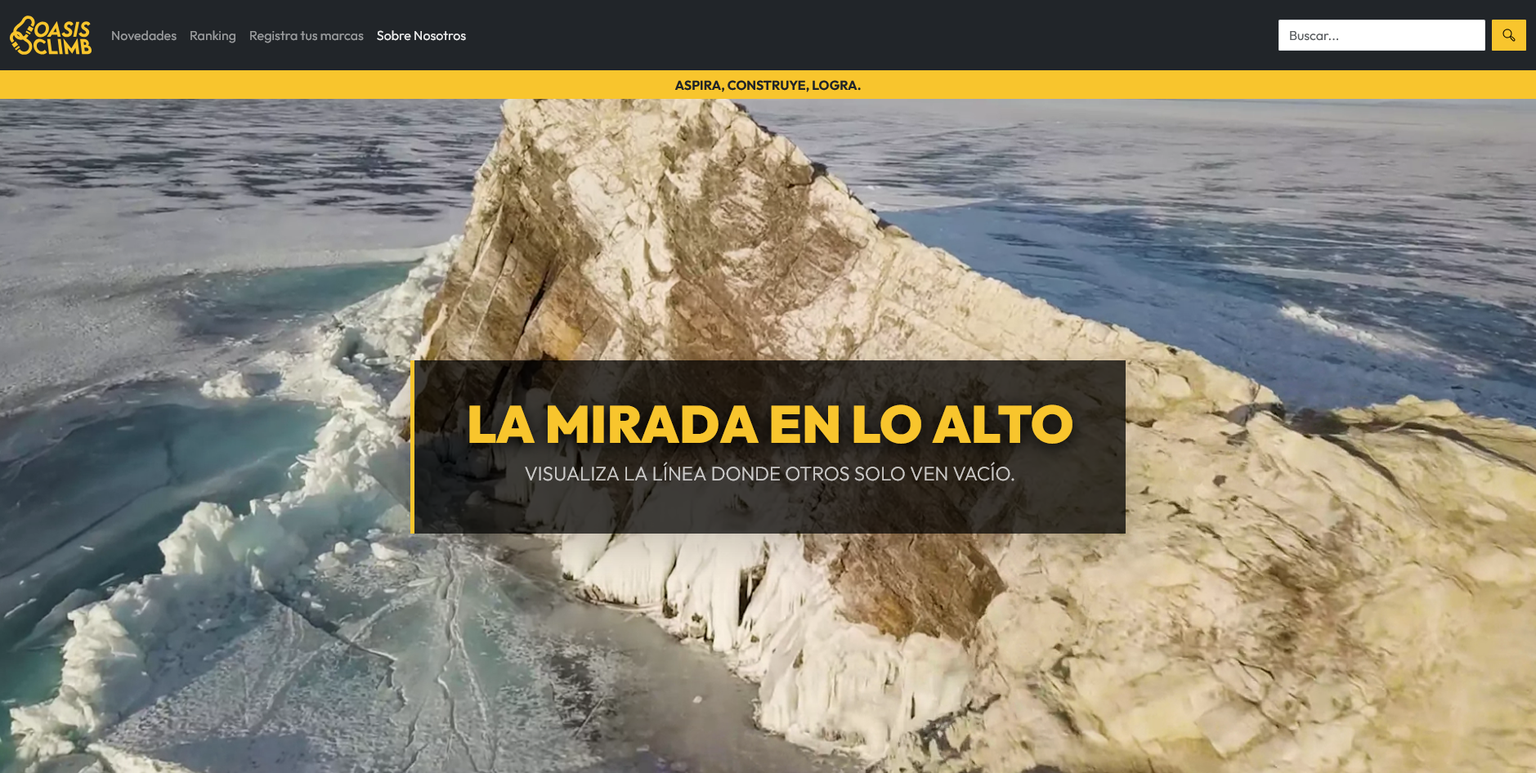
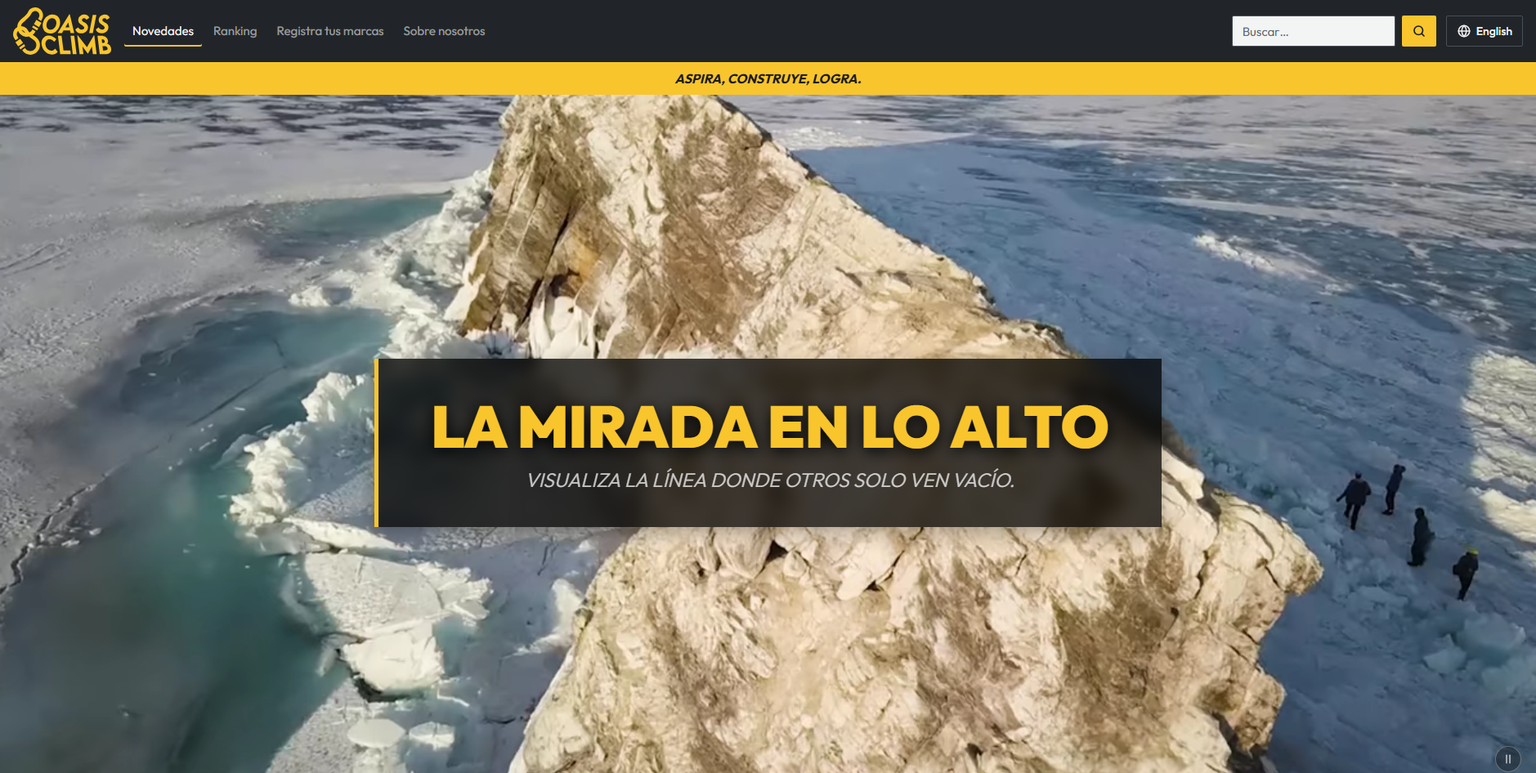
Add final metrics, case study and README update (RFP-26)
- docs/metrics-baseline.md: "after" column measured with the same method
  (JS 116.07 kB gz, CSS 6.30 kB gz, dist 14.3 MB, media 13.9 MB, 5 prod
  deps, Lighthouse mobile 86/100/100/100, Performance median of 3 runs).
- docs/case-study.md: EN + ES (Problem, Process, Decisions, Result) and
  the Portfolio fields block in PortfolioProject shape.
- README: new stack, scripts, i18n, search, links to the case study.
- docs/preview.png: fresh desktop capture of the current build.
- src/__tests__/docs.spec.ts: checks case study structure and README.

diff --git a/src/__tests__/docs.spec.ts b/src/__tests__/docs.spec.ts
@@ -1,0 +1,56 @@
+import { readFileSync } from 'node:fs'
+import { join } from 'node:path'
+import { describe, expect, it } from 'vitest'
+
+const root = join(__dirname, '..', '..')
+const read = (file: string) => readFileSync(join(root, file), 'utf8')
+
+describe('case study', () => {
+  const text = read('docs/case-study.md')
+  const english = text.slice(text.indexOf('## English'), text.indexOf('## Español'))
+  const spanish = text.slice(text.indexOf('## Español'), text.indexOf('## Portfolio fields'))
+
+  it('has an English and a Spanish part, in that order', () => {
+    expect(text).toContain('## English')
+    expect(text).toContain('## Español')
+    expect(text.indexOf('## English')).toBeLessThan(text.indexOf('## Español'))
+  })
+
+  it.each([
+    ['English', () => english],
+    ['Spanish', () => spanish],
+  ])('%s part has Problem, Process, Decisions and Result', (_name, part) => {
+    for (const heading of ['Problem', 'Process', 'Decisions', 'Result']) {
+      expect(part()).toContain(`### ${heading}`)
+    }
+  })
+
+  it('ends with the portfolio fields block', () => {
+    const block = text.slice(text.indexOf('## Portfolio fields'))
+    for (const key of ['summary:', 'context:', 'decisions:', 'challenges:']) {
+      expect(block).toContain(key)
+    }
+  })
+
+  it('has no pending-work markers', () => {
+    expect(text).not.toMatch(/\b(TODO|TBD|XXX)\b/)
+    expect(read('docs/metrics-baseline.md')).not.toMatch(/\b(TODO|TBD|XXX)\b/)
+  })
+})
+
+describe('README', () => {
+  const readme = read('README.md')
+
+  it('has no placeholders', () => {
+    expect(readme).not.toContain('<nuevo-nombre')
+  })
+
+  it('does not mention the removed CSS frameworks', () => {
+    expect(readme).not.toMatch(/bootstrap|coreui/i)
+  })
+
+  it('links the case study and documents the test script', () => {
+    expect(readme).toContain('./docs/case-study.md')
+    expect(readme).toContain('npm run test')
+  })
+})

diff --git a/docs/case-study.md b/docs/case-study.md
@@ -1,0 +1,220 @@
+# OasisClimb UI: case study
+
+Refactor of a fictional climbing-community landing page (Vue 3) from a Bootstrap prototype into a typed, tested, bilingual SPA.
+Demo: <https://v-pelaez.github.io/oasis-climb-ui/> · Code: <https://github.com/v-pelaez/oasis-climb-ui>.
+Numbers come from `docs/metrics-baseline.md` (same method before and after, measured on the same machine).
+
+## English
+
+### Problem
+
+The starting point (commit `4dd4a19`) looked finished but was not maintainable:
+
+- About 1,500 lines in 9 components, and no TypeScript in the SFCs although the README said so.
+- Bootstrap was loaded twice (SCSS and `coreui.min.css`): 69.7 kB of gzipped CSS for one landing page.
+- The brand yellow `#f8c52d` was hard-coded in more than 10 places; some ids were duplicated.
+- The particles canvas had a bug (`canvas.height` instead of `canvas.value.height`, no `requestAnimationFrame` cancel); the hero carousel ran on timers.
+- Font Awesome icons were used but never installed, so they were invisible; emoji flags do not render on Windows.
+- 13 lint errors, no tests, no CI, 55.4 MB of images and video, Spanish only.
+
+### Process
+
+We worked in small tickets, each on its own branch and merged into one epic, with the checks (lint, type-check, tests, build) green at every step:
+
+1. Baseline: measured the untouched commit with a documented method, so the final numbers are comparable.
+2. Tooling: SFCs to TypeScript, typed content data, Vitest and CI.
+3. Own styles and layout without Bootstrap; then news and ranking, route form, hero carousel and about section rebuilt one at a time.
+4. Bootstrap and CoreUI removed, with a test that fails if their packages or classes come back.
+5. i18n, search and media optimisation; a contrast and hero-video fix after reviewing against the style guide.
+6. Final measurement and this write-up.
+
+History note: the original interface was a static Bootstrap page migrated to Vue; Bootstrap and CoreUI no longer exist in the project.
+
+### Decisions
+
+**1. No CSS framework: Sass tokens + Reka UI.** One `tokens.scss` holds every brand value as `--oc-*` custom properties (a test enforces that the yellow is written only there), plus a small base, mixins and scoped component styles. Behaviour that is hard to get right (dialog, popover, tooltip, tabs, combobox) comes from Reka UI, which is unstyled and accessible.
+- Discarded: Tailwind v4 + Reka UI. It would also remove Bootstrap, but a design this small with a fixed style guide gains little from utility classes, and it would put the design values in markup instead of one file.
+- Discarded: everything by hand. Focus trapping, keyboard navigation and ARIA for five widgets is where hand-rolled code breaks.
+- Trade-off: Reka UI and own styles cost JavaScript (see Result).
+
+**2. i18n by detection, with a button and no flags.** `vue-i18n` (Composition API), Spanish and English. The language is the saved choice, else the first browser language that is `es` or `en`, else English; `<html lang>`, title and meta description follow. The switch is a button that names the other language in that language. Dates, countries and numbers use `Intl`. A test checks both locale files have the same keys.
+- Discarded: URL-based locales (`/es`, `/en`). It is a single-page demo, not worth the routing and SEO surface.
+- Discarded: flags for languages (a flag is a country, not a language). Ranking countries do use inline SVG flags, because Chrome and Edge on Windows do not draw emoji flags.
+
+**3. Client-side search.** A pure index of news, both rankings and sections in the active language, accent and case insensitive, minimum 2 characters, at most 8 results. It is a Reka UI Combobox; choosing a result opens the right ranking tab, scrolls to the target and outlines it for about 2 seconds.
+- Discarded: a search service or library. The content is a few dozen static items; an index is about one file and adds no dependency.
+
+**4. Carousel chained by `ended` instead of timers.** Before: a `setInterval` of 6 s with a loop, which cut videos mid-play. Now each video plays to its end, the next one fades in, progress comes from the video's own `timeupdate`, there is a pause button, only the active and next videos are loaded, and it respects `prefers-reduced-motion`. A real bug found along the way: the fading video kept `data-active`, so the finished video was replayed; videos are now looked up by slide index.
+- Discarded: keeping timers and tuning the interval. Durations differ per video, so any fixed interval is wrong for some of them.
+
+**5. Optimised media.** Videos: VP8 to VP9, two-pass ffmpeg, crf 34-38, audio removed except in the about video (Opus 64 kbps); one video drops to 720p because 1080p did not fit the budget. Images: WebP quality 80, thumbnails up to 800 px and headers up to 1920 px (one source was 6720x4480), explicit `width`/`height`, lazy loading below the fold. Scripts are in `scripts/` so it is reproducible. Media went from 55.4 MB to 13.9 MB.
+- Discarded: AV1 (slower to encode, weaker support at the time) and an image CDN (no infrastructure for a demo).
+
+**6. Tests and CI.** 117 Vitest tests (components, composables, data, locale parity, a guard against Bootstrap coming back, docs checks) and a GitHub Actions workflow running lint, type-check, tests and build on pull requests. Lint is strict (`--max-warnings 0`).
+- Discarded: end-to-end tests for now; unit and component tests cover the logic, and the cost of a browser pipeline was not justified for this size.
+
+**Differences applied from the style guide** (`docs/style-guide.pdf`), as seen in the git history:
+- Light surfaces are no longer pure white: `--oc-page` is `#e9ebec` and a new `--oc-surface` (`#f3f4f4`) is used on cards, tables, inputs and popovers.
+- The secondary and placeholder gray was darkened to keep AA contrast on that surface.
+- The logo is imported through Vite and has explicit dimensions (120x57 in the header).
+- Pagination, subscribe and the unavailable links open a popover on click (Reka UI Popover) instead of navigating or doing nothing.
+- Countries are written with `Intl.DisplayNames` in the active language (for example «Chequia» in Spanish) and drawn with SVG flags.
+- A language button in the header, and a search field with results.
+- Dark route-form inputs with a yellow focus border; the hero carousel with pause and progress.
+
+### Result
+
+| Metric | Before | After |
+| --- | ---: | ---: |
+| JS, gzip | 79.29 kB | 116.07 kB |
+| CSS, gzip | 69.71 kB | 6.30 kB |
+| `dist/` | 56.2 MB | 14.3 MB |
+| Media in `dist/assets` | 55.4 MB | 13.9 MB |
+| Production dependencies | 9 | 5 |
+| Tests | 0 | 117 |
+| Lighthouse mobile, Performance | 92 | 86 |
+| Lighthouse mobile, Accessibility | 81 | 100 |
+| Lighthouse mobile, Best Practices | 100 | 100 |
+| Lighthouse mobile, SEO | 82 | 100 |
+
+Lighthouse 12.8.2, mobile profile, headless Edge against `npm run preview`; the baseline was one run, the final Performance score is the median of three (86, 86, 83).
+
+What did not improve: JavaScript grew by about 37 kB gzipped because `vue-i18n` and Reka UI were added. Lighthouse Performance went down six points (LCP 2.8 s to 3.5 s, TBT 90 ms to 130 ms), even though the page transfers 4.9 MB instead of 14.9 MB: the hero video now arrives a bit later than in the old build and there is more JavaScript to run. We accepted that for accessibility, i18n and search; the next steps would be to lazy-load the combobox and the second locale, and to serve a smaller first video.
+
+## Español
+
+### Problem
+
+El punto de partida (commit `4dd4a19`) parecía terminado, pero no se podía mantener:
+
+- Unas 1.500 líneas en 9 componentes y sin TypeScript en los SFC, aunque el README decía lo contrario.
+- Bootstrap se cargaba dos veces (SCSS y `coreui.min.css`): 69,7 kB de CSS en gzip para una sola página.
+- El amarillo de marca `#f8c52d` estaba escrito a mano en más de 10 sitios; había ids duplicados.
+- El canvas de partículas tenía un fallo (`canvas.height` en lugar de `canvas.value.height`, sin cancelar el `requestAnimationFrame`); el carrusel de la portada funcionaba con temporizadores.
+- Los iconos de Font Awesome se usaban sin estar instalados, así que no se veían; las banderas emoji no se dibujan en Windows.
+- 13 errores de lint, sin tests ni CI, 55,4 MB de imágenes y vídeo y solo en español.
+
+### Process
+
+Trabajamos en tickets pequeños, cada uno en su rama y fusionado en una rama de épica, con las comprobaciones (lint, tipos, tests, build) en verde en cada paso:
+
+1. Línea base: medimos el commit original con un método documentado, para que las cifras finales sean comparables.
+2. Herramientas: SFC a TypeScript, datos de contenido tipados, Vitest y CI.
+3. Estilos y maquetación propios sin Bootstrap; después noticias y ranking, formulario de ruta, carrusel de portada y «Sobre nosotros», uno a uno.
+4. Bootstrap y CoreUI eliminados, con un test que falla si vuelven sus paquetes o sus clases.
+5. i18n, búsqueda y optimización de medios; una corrección de contraste y del carrusel tras revisar con la guía de estilos.
+6. Medición final y este documento.
+
+Nota histórica: la interfaz original era una página estática con Bootstrap migrada a Vue; Bootstrap y CoreUI ya no existen en el proyecto.
+
+### Decisions
+
+**1. Sin framework CSS: tokens Sass + Reka UI.** Un único `tokens.scss` guarda todos los valores de marca como propiedades `--oc-*` (un test exige que el amarillo solo se escriba ahí), más una base pequeña, mixins y estilos de componente con scope. Lo difícil de hacer bien (diálogo, popover, tooltip, pestañas, combobox) viene de Reka UI, que no trae estilos y es accesible.
+- Descartado: Tailwind v4 + Reka UI. También quitaría Bootstrap, pero con un diseño tan pequeño y una guía de estilos fija las utilidades aportan poco, y los valores de diseño acabarían en el marcado en lugar de en un archivo.
+- Descartado: todo a mano. Atrapar el foco, el teclado y ARIA de cinco widgets es donde falla el código hecho a mano.
+- Coste: Reka UI y los estilos propios suman JavaScript (ver Result).
+
+**2. i18n por detección, con botón y sin banderas.** `vue-i18n` (Composition API), español e inglés. El idioma es la elección guardada, si no el primer idioma del navegador que sea `es` o `en`, si no inglés; `<html lang>`, título y meta descripción lo siguen. El cambio es un botón que nombra el otro idioma en ese idioma. Fechas, países y números usan `Intl`. Un test comprueba que ambos ficheros tienen las mismas claves.
+- Descartado: idioma en la URL (`/es`, `/en`). Es una demo de una sola página y no compensa el enrutado ni la superficie de SEO.
+- Descartado: banderas para los idiomas (una bandera es un país, no un idioma). Los países del ranking sí usan banderas SVG en línea, porque Chrome y Edge en Windows no dibujan las banderas emoji.
+
+**3. Buscador en cliente.** Un índice puro de noticias, los dos rankings y las secciones en el idioma activo, sin distinguir tildes ni mayúsculas, mínimo 2 caracteres y como máximo 8 resultados. Es un Combobox de Reka UI; al elegir un resultado se abre la pestaña de ranking correcta, se hace scroll al destino y se resalta unos 2 segundos.
+- Descartado: un servicio o librería de búsqueda. El contenido son unas decenas de elementos estáticos; el índice es un archivo y no añade dependencias.
+
+**4. Carrusel encadenado por `ended`, no por temporizadores.** Antes: un `setInterval` de 6 s con bucle, que cortaba los vídeos a medias. Ahora cada vídeo se reproduce hasta el final, el siguiente aparece con fundido, el progreso sale del `timeupdate` del propio vídeo, hay botón de pausa, solo se cargan el vídeo activo y el siguiente, y respeta `prefers-reduced-motion`. Un fallo real que encontramos: el vídeo que se desvanecía conservaba `data-active`, así que se repetía el terminado; ahora se busca por índice de diapositiva.
+- Descartado: mantener temporizadores y afinar el intervalo. Cada vídeo dura distinto, así que cualquier intervalo fijo falla en alguno.
+
+**5. Medios optimizados.** Vídeos: de VP8 a VP9, ffmpeg en dos pasadas, crf 34-38, sin audio salvo en el vídeo de «Sobre nosotros» (Opus 64 kbps); uno baja a 720p porque en 1080p no cabía en el presupuesto. Imágenes: WebP calidad 80, miniaturas de hasta 800 px y cabeceras de hasta 1920 px (una fuente era de 6720x4480), `width`/`height` explícitos y carga diferida bajo el pliegue. Los scripts están en `scripts/`, así que es reproducible. Los medios pasaron de 55,4 MB a 13,9 MB.
+- Descartado: AV1 (codifica más lento y tenía menos soporte entonces) y un CDN de imágenes (no hay infraestructura para una demo).
+
+**6. Tests y CI.** 117 tests de Vitest (componentes, composables, datos, paridad de idiomas, una guarda contra el regreso de Bootstrap, comprobaciones de los documentos) y un workflow de GitHub Actions que ejecuta lint, tipos, tests y build en las pull requests. El lint es estricto (`--max-warnings 0`).
+- Descartado: tests end-to-end por ahora; los tests unitarios y de componentes cubren la lógica y una pipeline con navegador no compensaba en este tamaño.
+
+**Diferencias aplicadas de la guía de estilos** (`docs/style-guide.pdf`), según el historial de git:
+- Las superficies claras ya no son blanco puro: `--oc-page` es `#e9ebec` y un nuevo `--oc-surface` (`#f3f4f4`) se usa en tarjetas, tablas, campos y popovers.
+- El gris secundario y el de los placeholders se oscureció para mantener contraste AA sobre esa superficie.
+- El logo se importa con Vite y tiene dimensiones explícitas (120x57 en la cabecera).
+- La paginación, la suscripción y los enlaces no disponibles abren un popover al hacer clic (Reka UI Popover) en lugar de navegar o no hacer nada.
+- Los países se escriben con `Intl.DisplayNames` en el idioma activo (por ejemplo «Chequia» en español) y se dibujan con banderas SVG.
+- Botón de idioma en la cabecera y campo de búsqueda con resultados.
+- Campos oscuros del formulario de ruta con borde amarillo al enfocar; carrusel de portada con pausa y progreso.
+
+### Result
+
+| Métrica | Antes | Después |
+| --- | ---: | ---: |
+| JS, gzip | 79,29 kB | 116,07 kB |
+| CSS, gzip | 69,71 kB | 6,30 kB |
+| `dist/` | 56,2 MB | 14,3 MB |
+| Medios en `dist/assets` | 55,4 MB | 13,9 MB |
+| Dependencias de producción | 9 | 5 |
+| Tests | 0 | 117 |
+| Lighthouse móvil, Performance | 92 | 86 |
+| Lighthouse móvil, Accessibility | 81 | 100 |
+| Lighthouse móvil, Best Practices | 100 | 100 |
+| Lighthouse móvil, SEO | 82 | 100 |
+
+Lighthouse 12.8.2, perfil móvil, Edge headless contra `npm run preview`; la línea base fue una sola ejecución y la puntuación final de Performance es la mediana de tres (86, 86, 83).
+
+Lo que no mejoró: el JavaScript creció unos 37 kB en gzip porque se añadieron `vue-i18n` y Reka UI. La puntuación de Performance de Lighthouse bajó seis puntos (LCP de 2,8 s a 3,5 s, TBT de 90 ms a 130 ms) aunque la página transfiere 4,9 MB en lugar de 14,9 MB: el vídeo de portada llega algo más tarde que en la versión anterior y hay más JavaScript que ejecutar. Lo aceptamos a cambio de accesibilidad, i18n y búsqueda; los siguientes pasos serían cargar de forma diferida el combobox y el segundo idioma, y servir un primer vídeo más pequeño.
+
+## Portfolio fields
+
+Shape of `PortfolioProject` (`summary`, `context`, `decisions`, `challenges`; each text is `{ en, es }`).
+
+```ts
+summary: {
+  en: 'Refactor of a climbing-community landing page from a Bootstrap prototype to a typed, tested, bilingual Vue 3 SPA: CSS 70 kB to 6 kB gzipped, media 55 MB to 14 MB, Lighthouse accessibility 81 to 100.',
+  es: 'Refactor de una landing de comunidad de escalada de un prototipo con Bootstrap a una SPA Vue 3 tipada, con tests y bilingüe: CSS de 70 kB a 6 kB en gzip, medios de 55 MB a 14 MB, accesibilidad en Lighthouse de 81 a 100.',
+},
+context: {
+  en: 'A fictional brand site built as a frontend showcase. The original loaded Bootstrap twice, had no TypeScript in its components, no tests or CI, 55 MB of media and a carousel on timers. The goal was to keep the look and make the code something a team could maintain.',
+  es: 'Web de una marca ficticia hecha como escaparate de frontend. La original cargaba Bootstrap dos veces, no tenía TypeScript en los componentes, ni tests ni CI, tenía 55 MB de medios y un carrusel con temporizadores. El objetivo era mantener el aspecto y dejar un código que un equipo pueda mantener.',
+},
+decisions: [
+  {
+    title: {
+      en: 'Sass tokens and Reka UI instead of a CSS framework',
+      es: 'Tokens Sass y Reka UI en lugar de un framework CSS',
+    },
+    description: {
+      en: 'All brand values live in one tokens file and components use scoped styles; dialogs, popovers, tabs and the search combobox come from unstyled, accessible Reka UI primitives. Tailwind v4 and hand-written widgets were discarded. The cost is more JavaScript (79 kB to 116 kB gzipped).',
+      es: 'Todos los valores de marca viven en un único archivo de tokens y los componentes usan estilos con scope; diálogos, popovers, pestañas y el combobox del buscador salen de primitivas de Reka UI, accesibles y sin estilos. Se descartaron Tailwind v4 y los widgets hechos a mano. El coste es más JavaScript (de 79 kB a 116 kB en gzip).',
+    },
+  },
+  {
+    title: {
+      en: 'Language detection with a button, and a client-side index for search',
+      es: 'Detección de idioma con botón e índice en cliente para la búsqueda',
+    },
+    description: {
+      en: 'vue-i18n picks the saved or browser language (Spanish or English), names the other language on the button and formats dates, countries and numbers with Intl. Search is a pure in-memory index over the static content, with no service or extra dependency.',
+      es: 'vue-i18n elige el idioma guardado o el del navegador (español o inglés), el botón nombra el otro idioma y las fechas, países y números se formatean con Intl. La búsqueda es un índice puro en memoria sobre el contenido estático, sin servicio ni dependencias extra.',
+    },
+  },
+  {
+    title: {
+      en: 'Event-driven hero carousel and optimised media',
+      es: 'Carrusel de portada por eventos y medios optimizados',
+    },
+    description: {
+      en: 'Each hero video advances on its own ended event instead of a 6 s timer, and loads only when it is next. Videos were re-encoded to two-pass VP9 and images to WebP, cutting media from 55.4 MB to 13.9 MB.',
+      es: 'Cada vídeo de la portada avanza con su propio evento ended en lugar de un temporizador de 6 s y solo se carga cuando es el siguiente. Los vídeos se recodificaron a VP9 en dos pasadas y las imágenes a WebP, con lo que los medios pasan de 55,4 MB a 13,9 MB.',
+    },
+  },
+],
+challenges: [
+  {
+    en: 'Chrome and Edge on Windows do not draw emoji flags, so ranking countries use inline SVG flags and Intl.DisplayNames.',
+    es: 'Chrome y Edge en Windows no dibujan las banderas emoji, así que los países del ranking usan banderas SVG en línea e Intl.DisplayNames.',
+  },
+  {
+    en: 'Chaining videos by ended replayed a finished video while it was fading out; fixed by looking videos up by slide index.',
+    es: 'Encadenar vídeos por ended repetía un vídeo terminado mientras se desvanecía; se corrigió buscando los vídeos por índice de diapositiva.',
+  },
+  {
+    en: 'Lighthouse Performance went from 92 to 86 (LCP 2.8 s to 3.5 s) because of the extra JavaScript, while accessibility and SEO reached 100; lazy-loading the combobox and the second locale is the next step.',
+    es: 'El Performance de Lighthouse pasó de 92 a 86 (LCP de 2,8 s a 3,5 s) por el JavaScript añadido, mientras accesibilidad y SEO llegaron a 100; cargar de forma diferida el combobox y el segundo idioma es el siguiente paso.',
+  },
+],
+```

diff --git a/README.md b/README.md
@@ -9,13 +9,16 @@ Live Demo: **[v-pelaez.github.io/oasis-climb-ui](https://v-pelaez.github.io/oasi
 
 ## Overview
 
-Originally developed as a static Bootstrap interface, this project was migrated to a modular **Vue 3 + TypeScript** SPA to apply component-based architecture, client-side routing, and automated code quality tooling while preserving a cohesive visual identity.
+A modular **Vue 3 + TypeScript** SPA with component-based architecture, client-side routing, bilingual content (Spanish and English), tests and CI, keeping a cohesive visual identity.
+
+The story behind it (problem, decisions, measured before and after) is in the **[case study](./docs/case-study.md)**; the numbers and the method to repeat them are in [`docs/metrics-baseline.md`](./docs/metrics-baseline.md).
 
 ## Key Features
 
 - **SPA architecture & routing:** Multi-view client-side navigation structured with Vue Router 4.
 - **Rich media integration:** Hero of chained videos (each plays to its end, then the next fades in; progress bar from the video's own time, pause button, only the active and next video are loaded) and an embedded video section.
 - **Interactive UI & forms:** Client-side form validation, tooltips, tabs and dialogs built on accessible Reka UI primitives.
+- **Search:** client-side search over news, rankings and sections in the active language (accent and case insensitive); picking a result opens its tab, scrolls to it and highlights it.
 - **Data presentation:** Ranking tables with client-side pagination backed by static mock datasets.
 - **Custom visual effects:** Canvas animated background (`devicePixelRatio`-aware, static with `prefers-reduced-motion`) and animated SVG elements combined with custom Sass styling.
 
@@ -25,6 +28,7 @@ Originally developed as a static Bootstrap interface, this project was migrated 
 - **Language & Type Checking:** TypeScript (`~5.9.3`) · `vue-tsc`
 - **UI & Styling:** Sass design tokens and own layout components · Reka UI (accessible primitives) · self-hosted Outfit and LemonMilk fonts
 - **i18n:** vue-i18n 11 (Composition API), Spanish and English
+- **Media:** WebM (VP9) videos and WebP images, re-encoded with the scripts in `scripts/`
 - **Code Quality:** ESLint 9 · Prettier 3 · Vitest (`@vue/test-utils`, jsdom) · GitHub Actions CI
 
 ## Internationalisation

diff --git a/docs/metrics-baseline.md b/docs/metrics-baseline.md
@@ -55,6 +55,40 @@ peso total transferido 14 907 KiB.
 > Nota: una sola ejecución en local; Lighthouse varía unos puntos entre ejecuciones. Para comparar, repetir en la misma
 > máquina y, si hace falta, tomar la mediana de 3 ejecuciones.
 
+## Después (RFP-26)
+
+Mismo método que el de abajo, sobre el commit `0092911` (rama `ticket/final-metrics-case-study`, cambios locales ninguno), el 2026-11-24, misma máquina
+(Windows 11, Node 24.22.1) y mismo Lighthouse 12.8.2 con Edge headless contra `npm run preview`.
+
+| Métrica | Antes (`4dd4a19`) | Después (`0092911`) | Cambio |
+| --- | ---: | ---: | ---: |
+| JS gzip (`assets/index-*.js`) | 79.29 kB (raw 227.82 kB) | 116.07 kB (raw 342.66 kB) | +46 % |
+| CSS gzip (`assets/index-*.css`) | 69.71 kB (raw 524.54 kB) | 6.30 kB (raw 31.04 kB) | -91 % |
+| `index.html` gzip | 0.30 kB | 0.40 kB | |
+| `dist/` total | 56 208 631 B (53.6 MiB) | 14 327 808 B (13.7 MiB) | -75 % |
+| Medios en `dist/assets` (jpg, png, webp, webm, svg, otf, woff2) | 55 442 006 B | 13 939 654 B | -75 % |
+| — imágenes + vídeo (jpg, png, webp, webm) | 55 402 694 B | 13 865 746 B | -75 % |
+| Dependencias de producción | 9 | 5 | -4 |
+| Peso de `src/assets` | 75 176 418 B (71.7 MiB) | 13 897 500 B (13.3 MiB) | -82 % |
+| Tests | 0 | 117 | |
+
+Las 5 dependencias: `@fontsource-variable/outfit`, `reka-ui`, `vue`, `vue-i18n`, `vue-router`.
+
+### Lighthouse móvil (después)
+
+| Categoría | Antes | Después |
+| --- | ---: | ---: |
+| Performance | 92 | 86 |
+| Accessibility | 81 | 100 |
+| Best Practices | 100 | 100 |
+| SEO | 82 | 100 |
+
+Métricas de Performance: FCP 2.3 s (antes 2.3 s) · LCP 3.5 s (2.8 s) · TBT 130 ms (90 ms) · CLS 0 (0) · Speed Index 3.0 s (2.9 s) ·
+peso total transferido 4 895 KiB (14 907 KiB).
+
+Performance se midió en 3 ejecuciones: 86, 86 y 83 (mediana 86; LCP 3.5-3.6 s, TBT 130-190 ms). La línea base fue una sola ejecución.
+Performance baja porque el JS creció (vue-i18n y Reka UI) y el LCP (el vídeo de portada) llega algo más tarde; las otras tres categorías suben o se mantienen.
+
 ## Medios (RFP-23)
 
 Peso (bytes) de cada fichero de `src/assets` antes y después de optimizar. Los originales ya no están en el repo.
